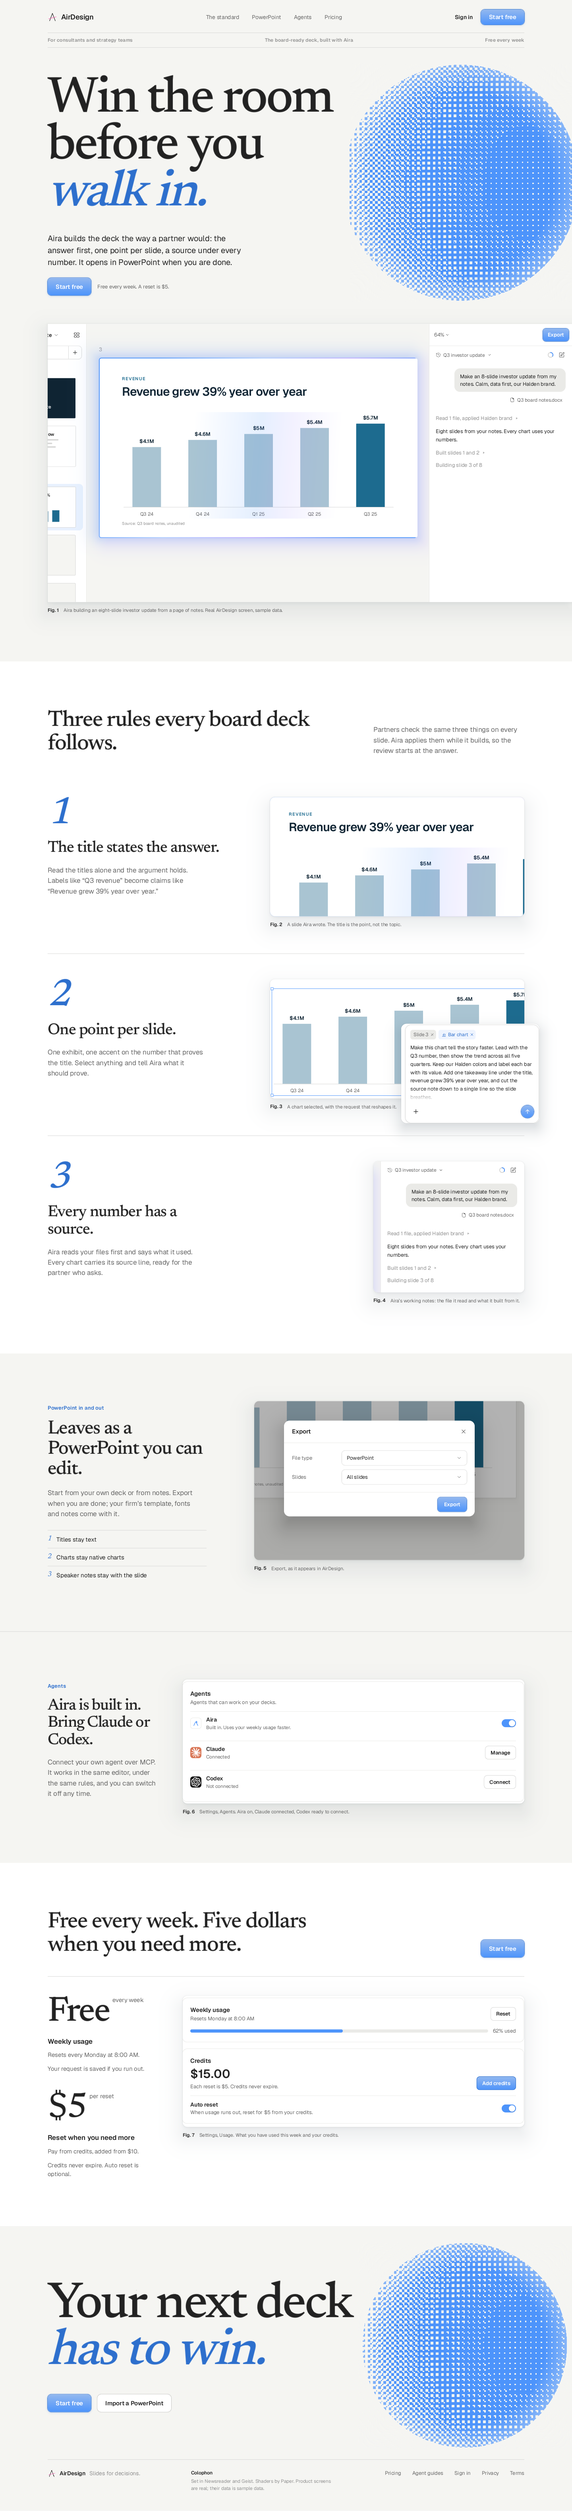
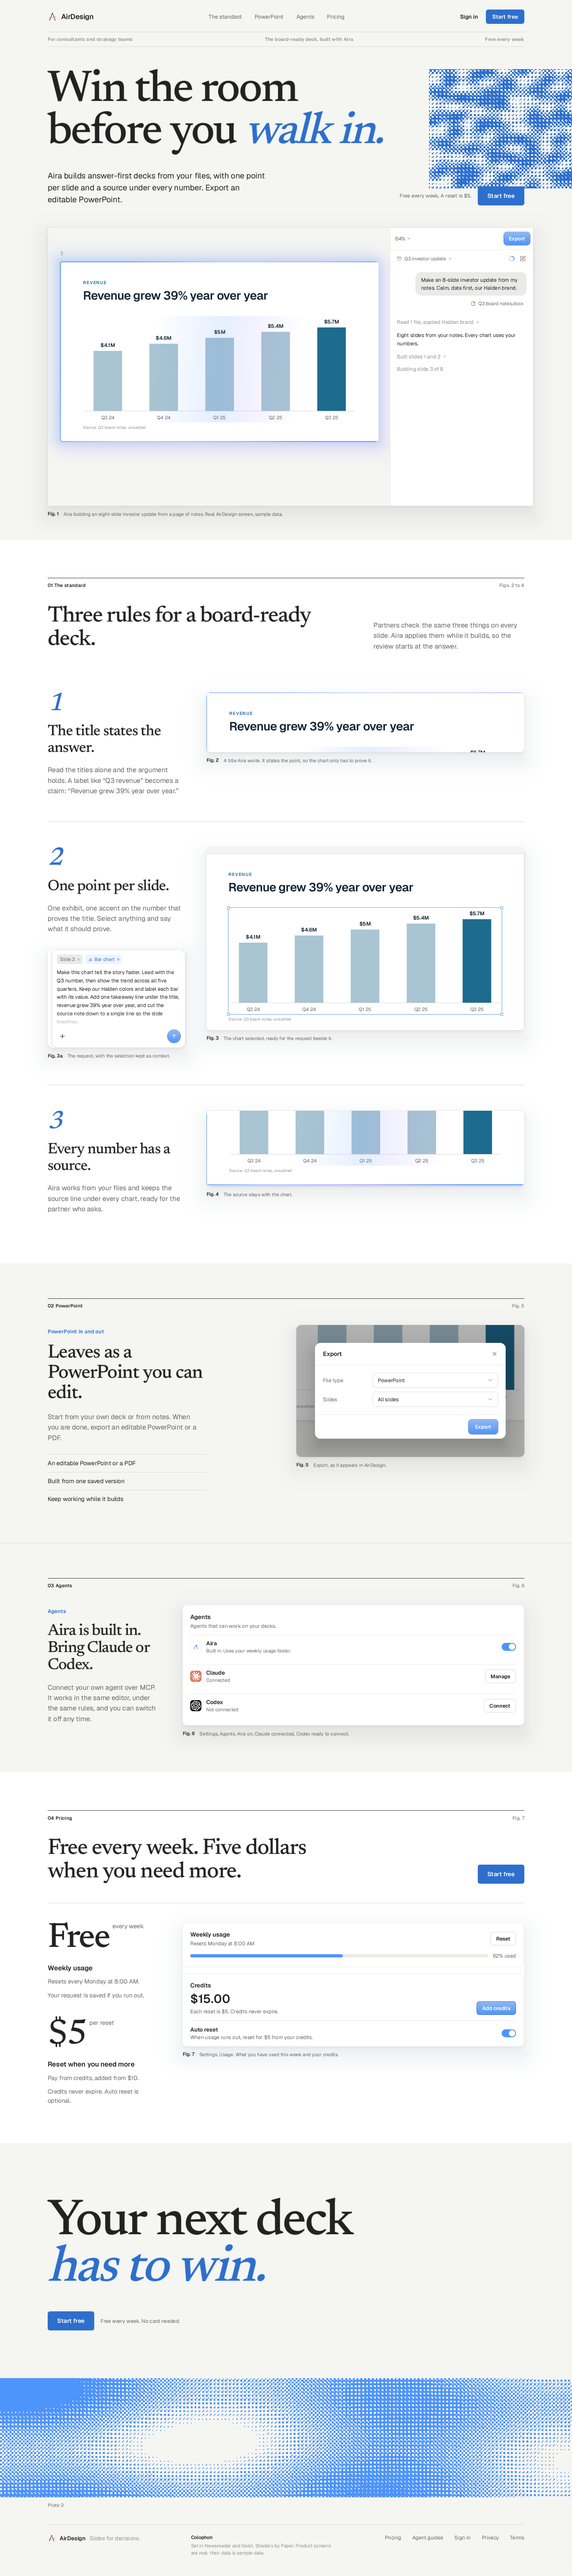
Landing v15: council round 5 fixes (real-screen crops, running heads, editorial buttons, printed plates, one action)

diff --git a/docs/design/v0.1/components.md b/docs/design/v0.1/components.md
@@ -135,17 +135,14 @@ In the editor toolbar: Agent and Design, height 28, inside a 32 high group. The 
 
 ## Landing page parts (S11.01)
 
-The landing page always takes the bolder visual option: it is for high-paid experts whose decks must win buy-in or a deal. The page is built like a board deck: answer first, three reasons, then proof, with a signpost on every section. It uses the same tokens and parts as the product. Research and concept notes are in [research/](research/).
+Editorial boardroom, rebuilt from scratch on 2026-11-05. Light page on paper #F5F5F2 with white sections, Newsreader for headlines and Geist for everything else, one blue (#2D6FCD, #4D94FB). For consultants and strategy teams; the one action is Start free.
 
-- **Signpost:** "02 / 07" plus seven short bars, the current one blue. Top right of every section head after the hero.
-- **Section head:** blue eyebrow and signpost on one row; title 48 semibold, broken into lines by hand; one lead line on the right.
-- **Hero collage:** "Win the room before you walk in." (88 semibold) left; layered slides right with the working glow, Figma-style title selection, a struck "Was" tag, review chips and a floating Aira card.
-- **In short strip:** the executive summary under the hero: label cell, then three numbered points.
-- **Title rewrites:** navy section; each row shows the label struck through in gray, a blue arrow, and the answer in 44 white. The active row carries the light selection with four handles.
-- **Pyramid:** governing thought slide, three argument slides joined by connector lines, an evidence pill under each.
-- **Titles only wall:** navy; eight mini slides with bodies dimmed to 12% so only titles read; below, the same titles set as one paragraph with the current one in white.
-- **Draft to decision:** "Your draft" table dump with red pen marks, an Aira tile, then "After Aira": the table sorted with Grow and Hold groups, two circled values, a navy "So what" callout with one line of context.
-- **Compare pair, agent cards, MCP row:** as in the product.
-- **Closing:** navy with radial blue light, eyebrow "Next step", one glowing slide, "Your next deck has to win."
-- Sample companies Halden and Brightwater, always labeled as sample data. Red marks only on the draft.
-- After any repush of the landing, run `source/fixsel.py` steps: the canvas drops spread-shadow selections, so the title selection is redrawn as a stroke with handles.
+- **Masthead:** brand, nav, Start free; a hairline, a date line, a second hairline.
+- **Hero:** "Win the room / before you walk in." in Newsreader 112px, "walk in." italic blue. Standfirst left, note and Start free right. A static dithered plate (Paper dithering, simplex, 8x8) with crop marks runs off the right edge.
+- **Figures:** every product image is a live clone of a real AirDesign screen inside a clip slot, numbered "Fig. N" with a caption. Fig. 1 editor (S42.01), Fig. 2 slide title, Fig. 3 selected chart (S42.04) with Fig. 3a composer beside it, Fig. 4 source line, Fig. 5 Export dialog (S61.01), Fig. 6 Agents settings (S81.02), Fig. 7 Usage settings (S81.01). Crops cut only filler.
+- **Running heads:** a 1px #222 rule with "01 The standard / Figs. 2 to 4" style labels open each section.
+- **Three rules:** italic blue numerals, serif row titles, body in Geist, figure on the right.
+- **Pricing on the page:** Free every week and $5 per reset as large serif figures, with the real Usage figure.
+- **Close:** "Your next deck has to win.", one Start free, then a full-bleed dithered wave band (Plate 2).
+- **Colophon:** "Set in Newsreader and Geist. Shaders by Paper." Paper Shaders stay on the marketing page only, never inside the product.
+- **Buttons on the landing:** solid #2D6FCD, white 15px semibold, radius 6, 48px (36px in the nav).

diff --git a/docs/design/v0.1/research/council/brief_r5.md b/docs/design/v0.1/research/council/brief_r5.md
@@ -1,0 +1,26 @@
+# Council brief, round 5: AirDesign landing page, full redesign (S11.01 v13)
+
+Read-only review. Do not edit any file outside `/tmp/strat/landing/council/`.
+
+## Product and audience
+AirDesign is a slide tool. Its built-in agent Aira builds board-ready decks: the title states the answer, one point per slide, every number sourced; export an editable PowerPoint; Claude or Codex can connect over MCP. Free weekly usage (resets Monday 8:00 AM); a reset costs $5 from credits (added from $10, never expire; auto reset optional).
+
+## The owner's brief for this redesign (binding)
+- Start over; the old approach is gone.
+- Concept: editorial boardroom, like an annual report or a serious magazine.
+- Audience first: consultants and strategy teams.
+- One action: Start free.
+- Bold and art-directed, light page. Serif headlines (Newsreader) with Geist for UI and body. Neutral paper #F5F5F2 and white, one blue (#2D6FCD / #4D94FB). No warm tints, no fake stats, no logos we do not have, no em dash or middle dot in copy.
+- Sections must include real AirDesign product screens (they are live clones of the real screens, framed as numbered figures with captions) and pricing on the page.
+- Shaders: Paper Shaders dithering used as printed halftone "plates" (hero and close). Credit "Shaders by Paper" in the colophon.
+- We follow the Stageshow framing rules (`~/.claude/skills/stageshow/references/framing.md`): crop only filler, the hero figure runs off an edge, one satellite straddling an edge, no plate behind a figure.
+
+## Look at
+`/tmp/strat/landing/council/r5_part1.png` ... `r5_part6.png` (full page `/tmp/strat/landing/v13.png`). The real source screens: `/tmp/strat/landing/real/*.png`. Generator: `/tmp/strat/ed/gen.mjs`, search `Landing v13`.
+
+## Return (under 450 words)
+1. **Score out of 10** against: stunning, memorable, credible to a McKinsey partner.
+2. **Top 5 changes**, ranked, concrete values (copy, sizes, layout). Judge hierarchy, layout, visual hook, copy, editorial craft and the figure framing.
+3. **Shaders and art direction:** keep, change or add, at most 3, with params.
+4. **Cut list.**
+5. **Satisfied?** yes or no.
